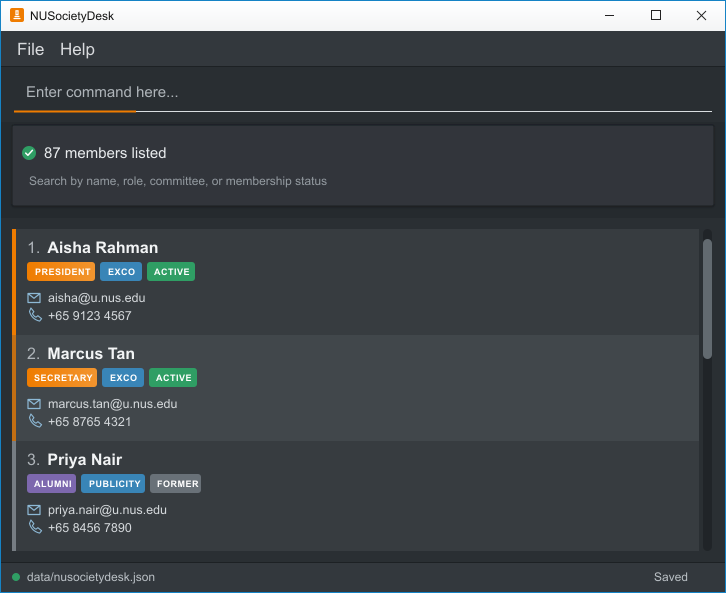
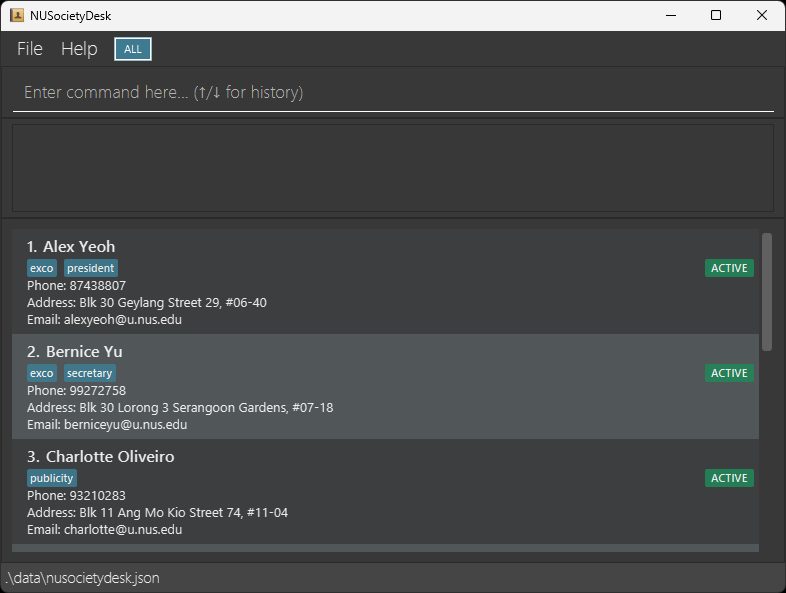
Refresh product landing page and UI screenshot
The landing page labels its screenshot as an early concept and offers
little guidance for prospective users.

Present member-management benefits, download links, and setup guidance.
Replace Ui.png with the current interface and align the README and User
Guide captions so they describe the product consistently.

diff --git a/docs/index.md b/docs/index.md
@@ -8,16 +8,42 @@
 [![CI Status](https://github.com/AY2627S1-CS2103T-T17-3/tp/workflows/Java%20CI/badge.svg)](https://github.com/AY2627S1-CS2103T-T17-3/tp/actions)
 [![codecov](https://codecov.io/gh/AY2627S1-CS2103T-T17-3/tp/graph/badge.svg?token=X6TRWEESQX)](https://codecov.io/gh/AY2627S1-CS2103T-T17-3/tp)
 
-![Ui](images/Ui.png)
+**Your society's members, in one place.**
 
-The image is an early UI concept. The current app includes a status button and uses `ARCHIVED` in place of `FORMER`.
+NUSocietyDesk is an offline desktop member directory for NUS society secretaries.
+Keep contact details, roles, committees, and membership status together, and use typed commands
+to find and update members while viewing their details in a graphical list.
 
-**NUSocietyDesk is an offline member directory for NUS society secretaries.** Use typed commands to import, find, and update members while viewing their contact details, society tags, and active or archived status in the graphical list. The status button cycles through All, Active, and Archived views; `view all|active|archived` selects them by command. Searches apply to the selected view.
+[**Download NUSocietyDesk**](https://github.com/AY2627S1-CS2103T-T17-3/tp/releases)
+&nbsp; | &nbsp; [**Get started**](UserGuide.html#quick-start)
 
-* To use NUSocietyDesk, start with the [_Quick Start_ section of the **User Guide**](UserGuide.html#quick-start).
-* To develop NUSocietyDesk, start with the [**Developer Guide**](DeveloperGuide.html).
+![NUSocietyDesk showing sample members, contact details, society tags, ACTIVE badges, and the ALL status button](images/Ui.png)
 
+## Spend less time on member administration
 
-**Acknowledgements**
+* **Bring your existing directory.** Import members from a CSV file and review feedback for any rejected records.
+* **Find the right member.** Search by name, phone, email, or tag, and combine conditions to narrow your results.
+* **Keep details up to date.** Add a member with just their `@u.nus.edu` email and fill in other contact details later.
+* **Organize roles and committees.** Add or remove tags such as `exco`, `publicity`, and `volunteer`.
+* **Retain former members.** Archive records without deleting their details, and activate returning members.
+  Switch between All, Active, and Archived views using the status button or a command.
+
+## Work from your keyboard, even offline
+
+Type `find t/publicity` to find members with the publicity tag, or `view archived` to view archived members.
+Searches apply to the selected status view. Use the ↑ and ↓ keys to recall recent commands.
+
+Your member directory stays on your computer, and successful changes are saved automatically.
+Core member-management features work without an Internet connection.
+
+## Start managing your directory
+
+You need Java **25 or later** to run NUSocietyDesk. Follow the
+[Quick Start](UserGuide.html#quick-start) to download and launch the app with sample members,
+then explore the [User Guide](UserGuide.html) for commands and CSV import instructions.
+
+For contributors, the [Developer Guide](DeveloperGuide.html) explains the application's design and setup.
+
+## Acknowledgements
 
 * Libraries used: [JavaFX](https://openjfx.io/), [Jackson](https://github.com/FasterXML/jackson), [JUnit5](https://github.com/junit-team/junit5)

diff --git a/docs/UserGuide.md b/docs/UserGuide.md
@@ -23,9 +23,9 @@ NUSocietyDesk is a desktop member directory for NUS society secretaries. It uses
 1. Copy the file to the folder you want to use as the home folder for your member directory.
 
 1. Open a terminal, `cd` to the folder containing the JAR file, and run `java -jar NUSocietyDesk.jar`.<br>
-   A GUI should appear in a few seconds with sample data. The image below is an early UI concept; the current
-   app has an **ALL** status button and uses **ARCHIVED** instead of **FORMER** on member cards.<br>
-   ![Ui](images/Ui.png)
+   A GUI should appear in a few seconds with sample data, as shown below.
+   The **ALL** status button indicates that both active and archived members are included in the list.<br>
+   ![NUSocietyDesk showing sample members and the ALL status button](images/Ui.png)
 
 1. Type a command in the command box and press Enter to execute it. For example, type **`help`** and press Enter to open the offline command reference in the Help window.<br>
    The status button starts at **ALL**. Click it to cycle through **ACTIVE**, **ARCHIVED**, and back to **ALL**;

diff --git a/README.md b/README.md
@@ -7,7 +7,7 @@ NUSocietyDesk is an offline desktop member directory for NUS society secretaries
 
 ![NUSocietyDesk member list](docs/images/Ui.png)
 
-The screenshot is an early UI concept that shows a `FORMER` badge. The current app displays `ARCHIVED` for archived members; new members start `ACTIVE`.
+The screenshot shows the app in All view with sample society members. Member cards display `ACTIVE` or `ARCHIVED` status; new members start `ACTIVE`.
 
 ## Current MVP
 
